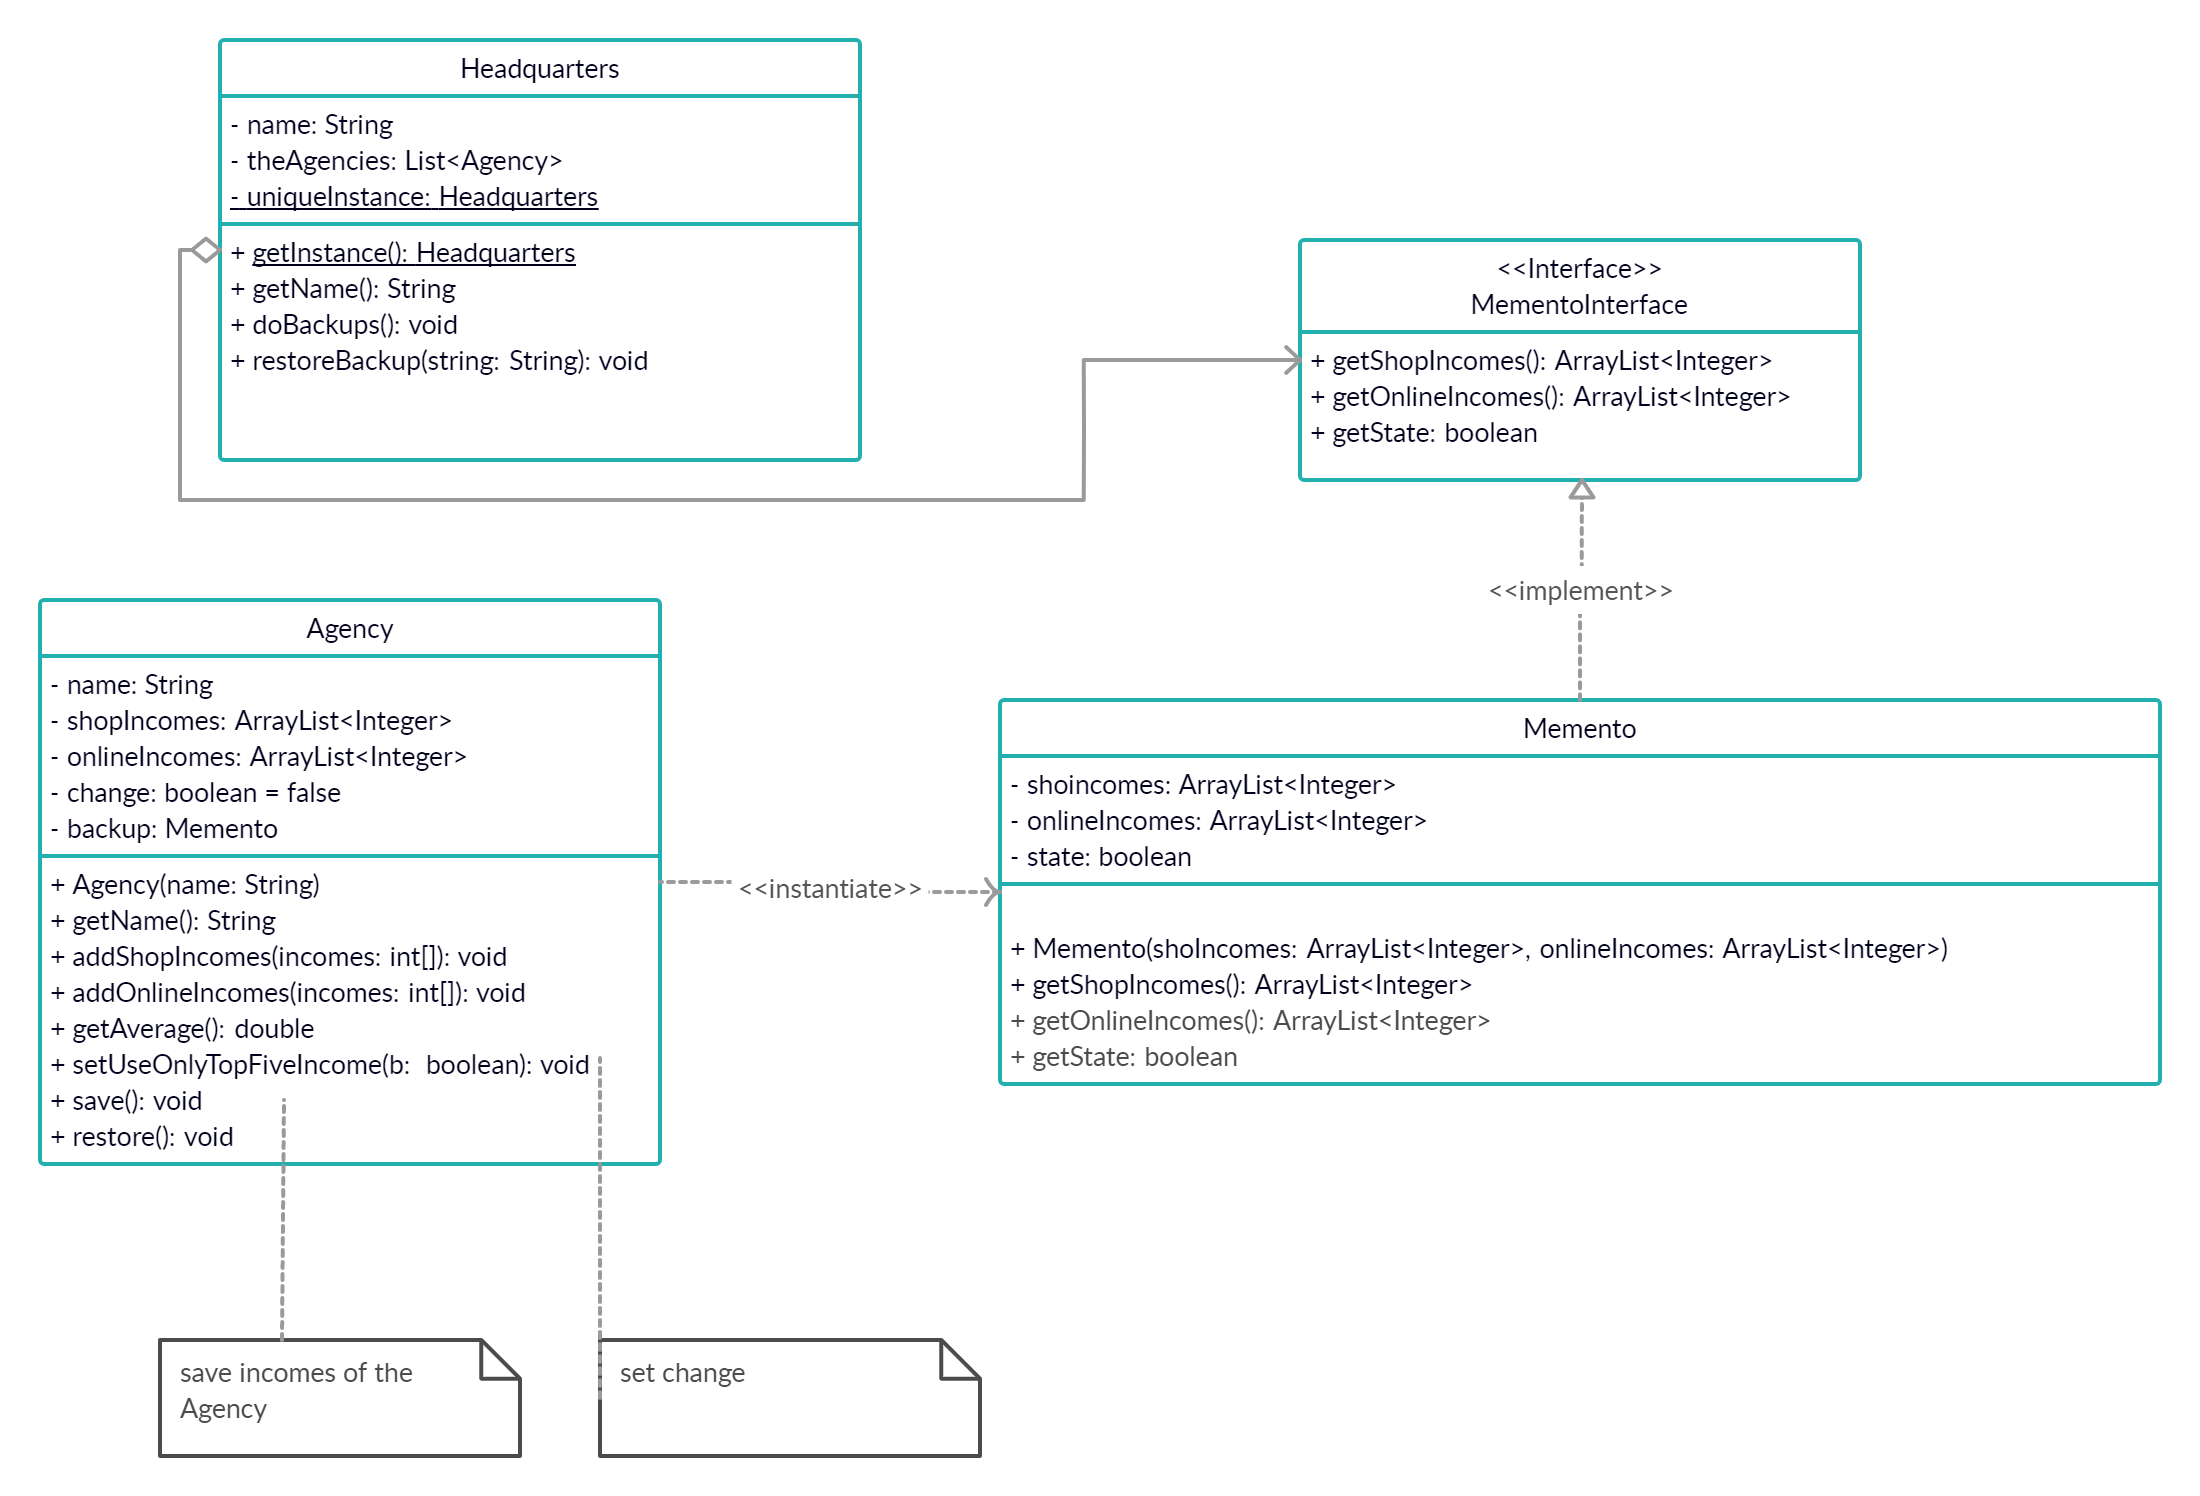
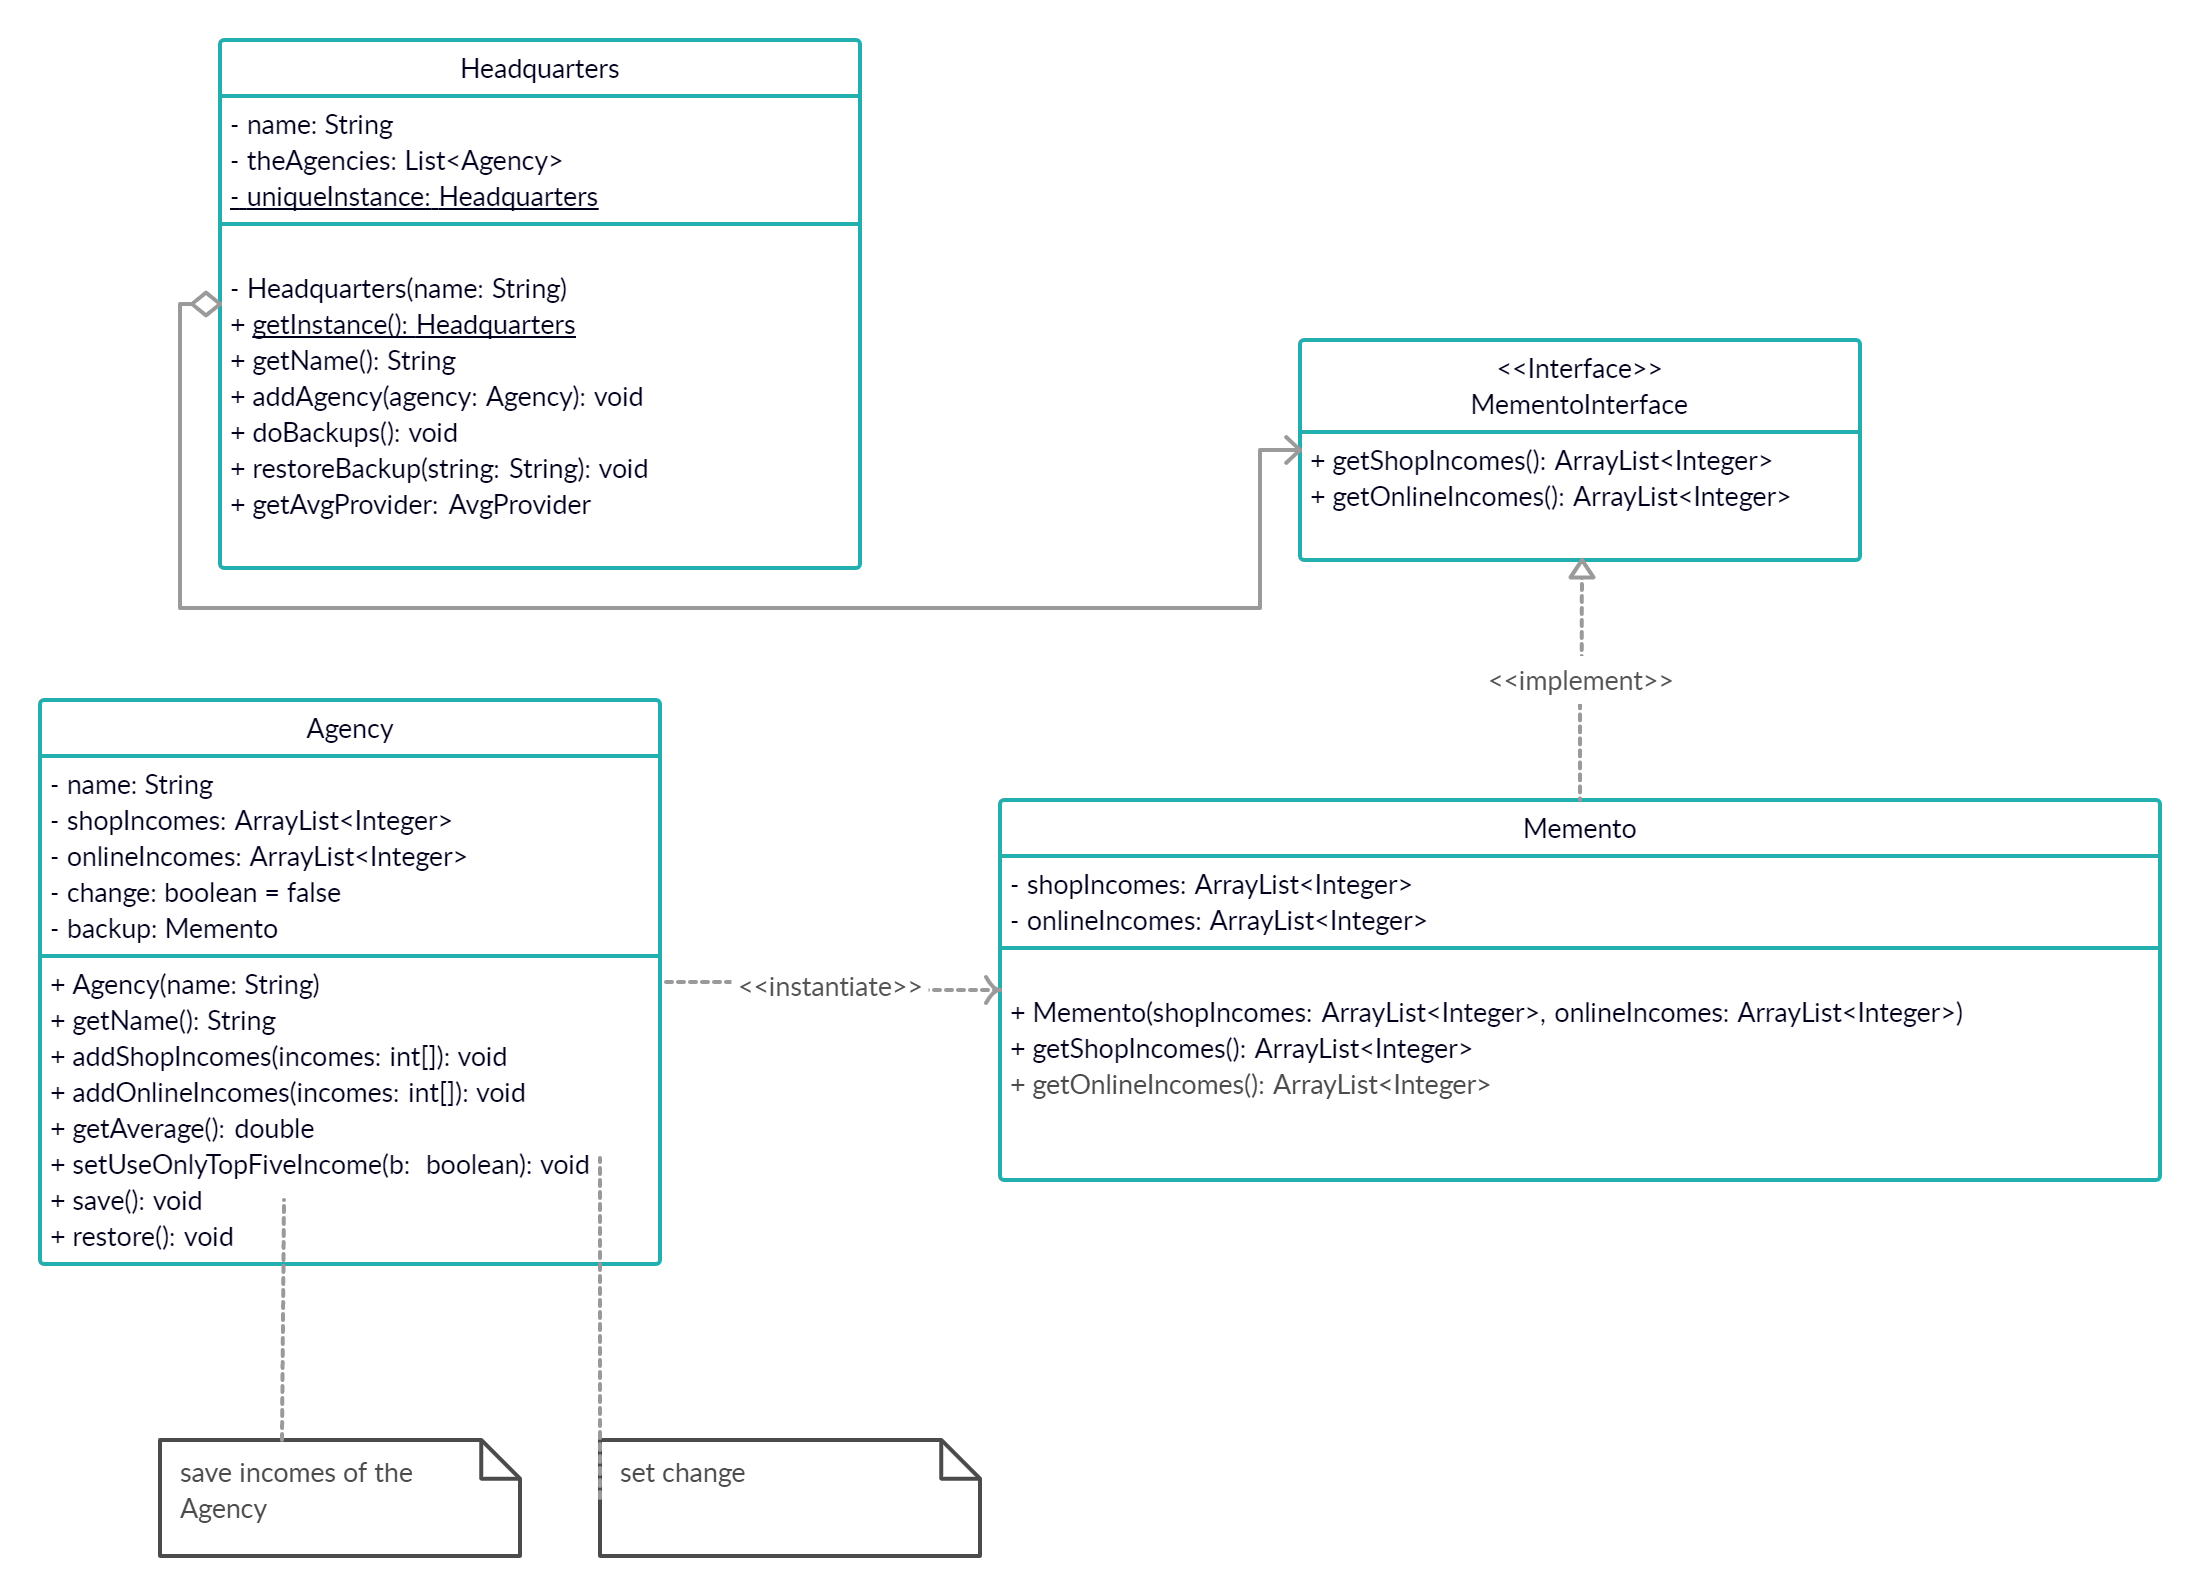
fix class diagrams

diff --git a/src/assignment2/Agency.java b/src/assignment2/Agency.java
@@ -8,13 +8,11 @@ import java.util.ArrayList;
  *
  */
 public class Agency {
-
 	private String name; // Agency identifier, a name
 	private ArrayList<Integer> shopIncomes; // incomes from the shop
 	private ArrayList<Integer> onlineIncomes; // incomes from the online e-commerce app
 	private boolean change = false;	// flag to use only top five incomes
 	private Memento backup; // Memento class
-
 
 	/**
 	 * Constructs the agency from their name
@@ -84,7 +82,7 @@ public class Agency {
 	public void save() {
 		ArrayList<Integer> copiedShopIncomes = new ArrayList<Integer>(shopIncomes);
 		ArrayList<Integer> copiedOnlineIncomes = new ArrayList<Integer>(onlineIncomes);
-		this.backup = new Memento(copiedShopIncomes, copiedOnlineIncomes, change);
+		this.backup = new Memento(copiedShopIncomes, copiedOnlineIncomes);
 	}
 
 	/**

diff --git a/src/assignment2/Memento.java b/src/assignment2/Memento.java
@@ -2,16 +2,14 @@ package assignment2;
 
 import java.util.ArrayList;
 
-// we implement ConcreteMemento as a nested class
+
 class Memento implements MementoInterface{
 	private ArrayList<Integer> shopIncomes;
 	private ArrayList<Integer> onlineIncomes;
-	private boolean state;
 
-	public Memento(ArrayList<Integer> shopIncomes, ArrayList<Integer> onlineIncomes, boolean state) {
+	public Memento(ArrayList<Integer> shopIncomes, ArrayList<Integer> onlineIncomes) {
 		this.shopIncomes = shopIncomes;
 		this.onlineIncomes = onlineIncomes;
-		this.state = state;
 	}
 
 	@Override
@@ -22,10 +20,5 @@ class Memento implements MementoInterface{
 	@Override
 	public ArrayList<Integer> getOnlineIncomes() {
 		return this.onlineIncomes;
-	}
-	
-	@Override
-	public boolean getState() {
-		return this.state;
 	}
 }

diff --git a/src/assignment2/TopFiveAvg.java b/src/assignment2/TopFiveAvg.java
@@ -2,6 +2,11 @@ package assignment2;
 
 import java.util.ArrayList;
 
+/**
+ * @return Another possible way is by computing the average by first computing the average
+ *  of the last five values (or less values if there are less the five values) of each type
+ *  of incomes, and then averaging the two results.
+ */
 public class TopFiveAvg implements AvgStrategy{
 
 	@Override

diff --git a/src/assignment2/MementoInterface.java b/src/assignment2/MementoInterface.java
@@ -2,8 +2,10 @@ package assignment2;
 
 import java.util.ArrayList;
 
+/*
+ * Interface for Memento DP
+ */
 public interface MementoInterface {
 	public ArrayList<Integer> getShopIncomes();
 	public ArrayList<Integer> getOnlineIncomes();
-	public boolean getState();
 }

diff --git a/src/assignment2/Headquarters.java b/src/assignment2/Headquarters.java
@@ -92,7 +92,7 @@ public class Headquarters implements Containter {
 	}
 
 	public class Iterator implements AvgProvider {
-		private int index;
+		private int index = 0;
 		
 		@Override
 		public double getNextAvg() {
